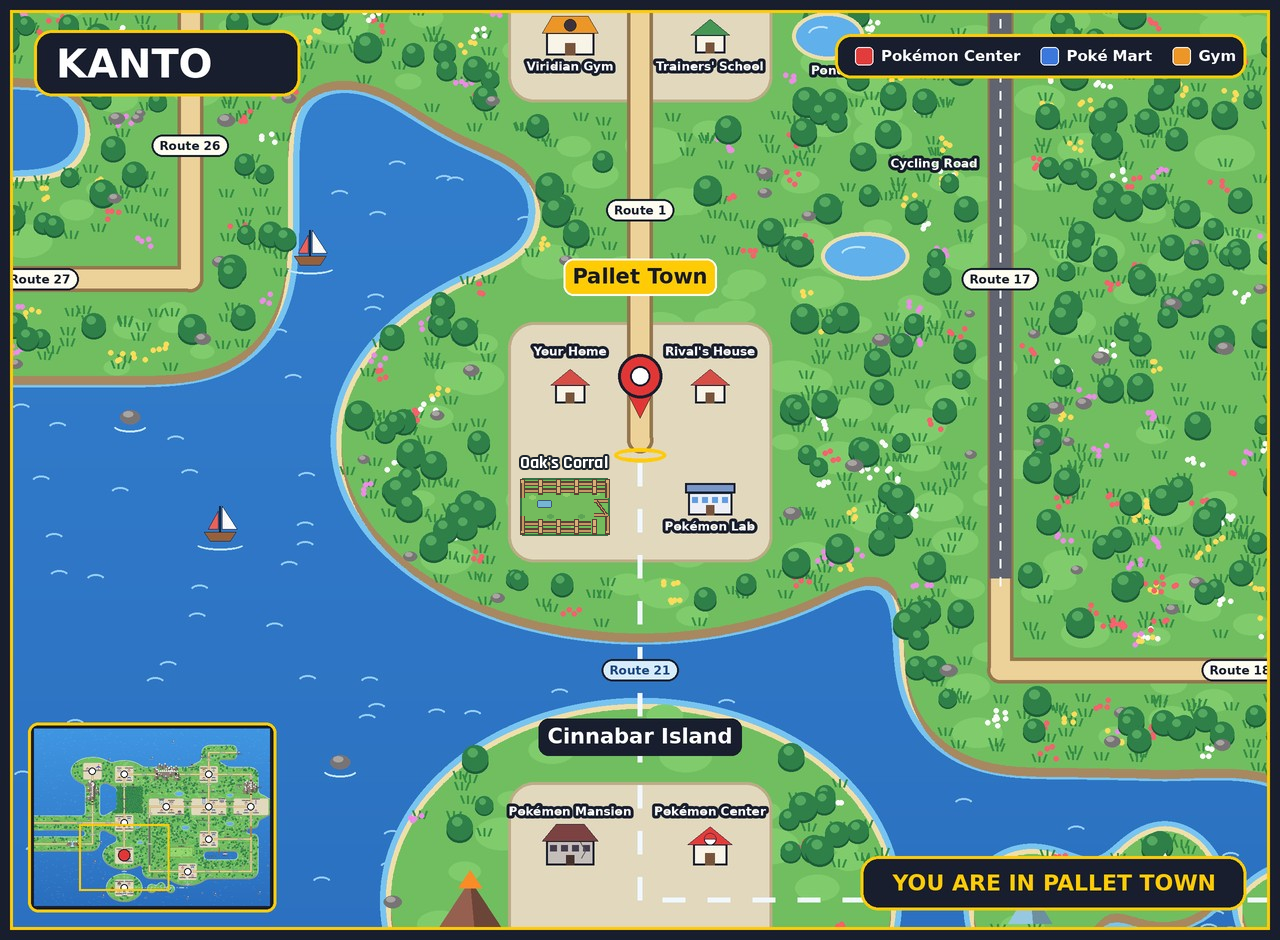
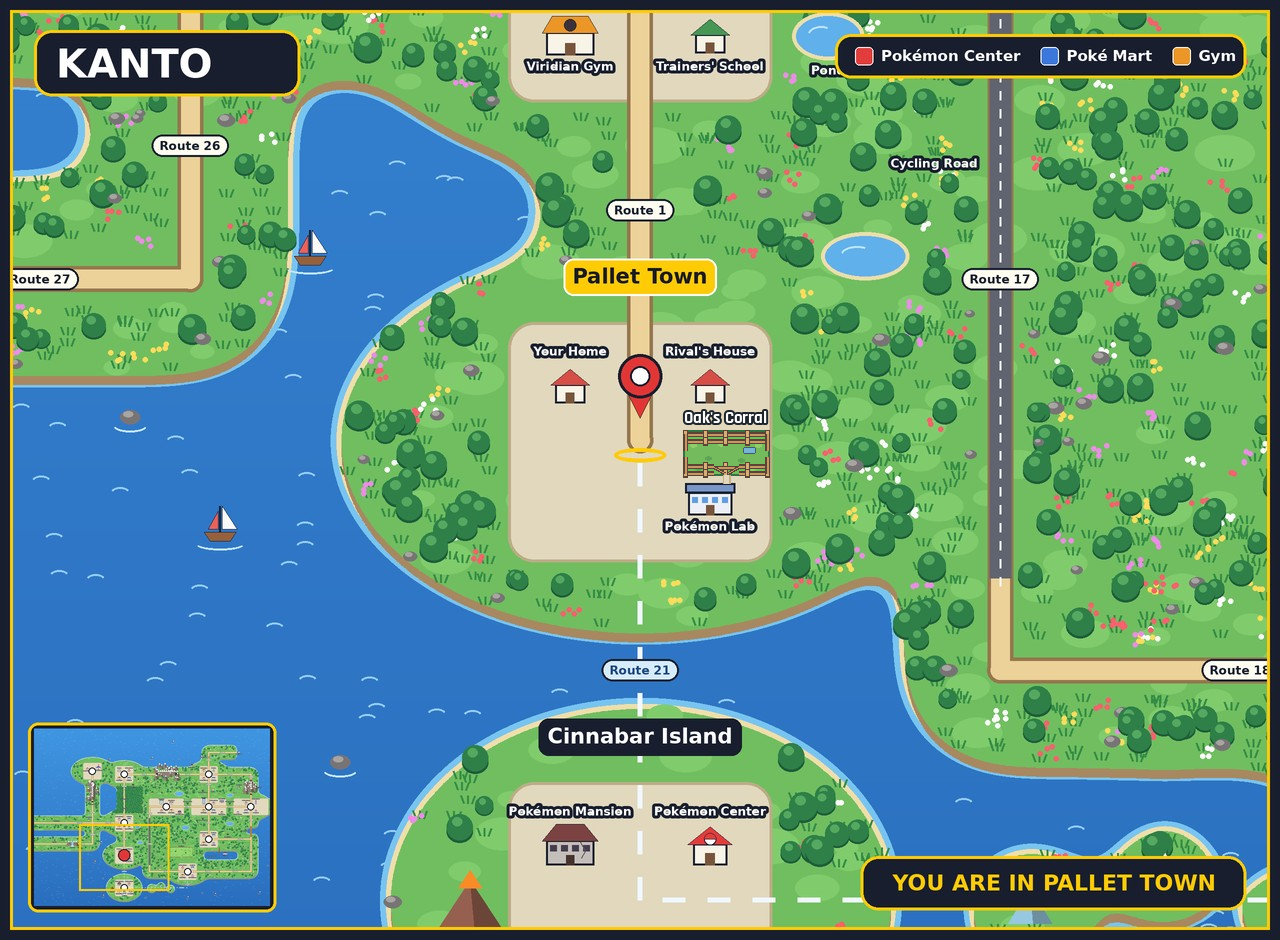
Place Oak's Corral behind the Lab on Pallet map

Changed region(s): [[0.4062, 0.4628, 0.5, 0.5862], [0.5312, 0.4319, 0.625, 0.5245]]

diff --git a/README.md b/README.md
@@ -16,7 +16,7 @@ Scene images are backgrounds/art only: dialogue, quest text, buttons, and UI are
 
 | Path | Intended use | Status |
 |---|---|---|
-| `assets/region/kanto-pallet-town.jpg` | Existing `/region` map source | Reworked in place to show Oak’s Corral beside the Lab; original map geography and existing labels preserved |
+| `assets/region/kanto-pallet-town.jpg` | Existing `/region` map source | Reworked in place to show Oak’s Corral behind the Lab; original map geography and existing labels preserved |
 | `assets/town/ash-home.jpg` | Ash’s Home scene | Used by Ash’s Home; one home location |
 | `assets/town/oak-corral.jpg` | Oak’s Corral/Pasture | Used by the Pallet Town scene |
 | `assets/town/rival-house.jpg` | Rival’s House scene | Used by the Pallet Town scene |
